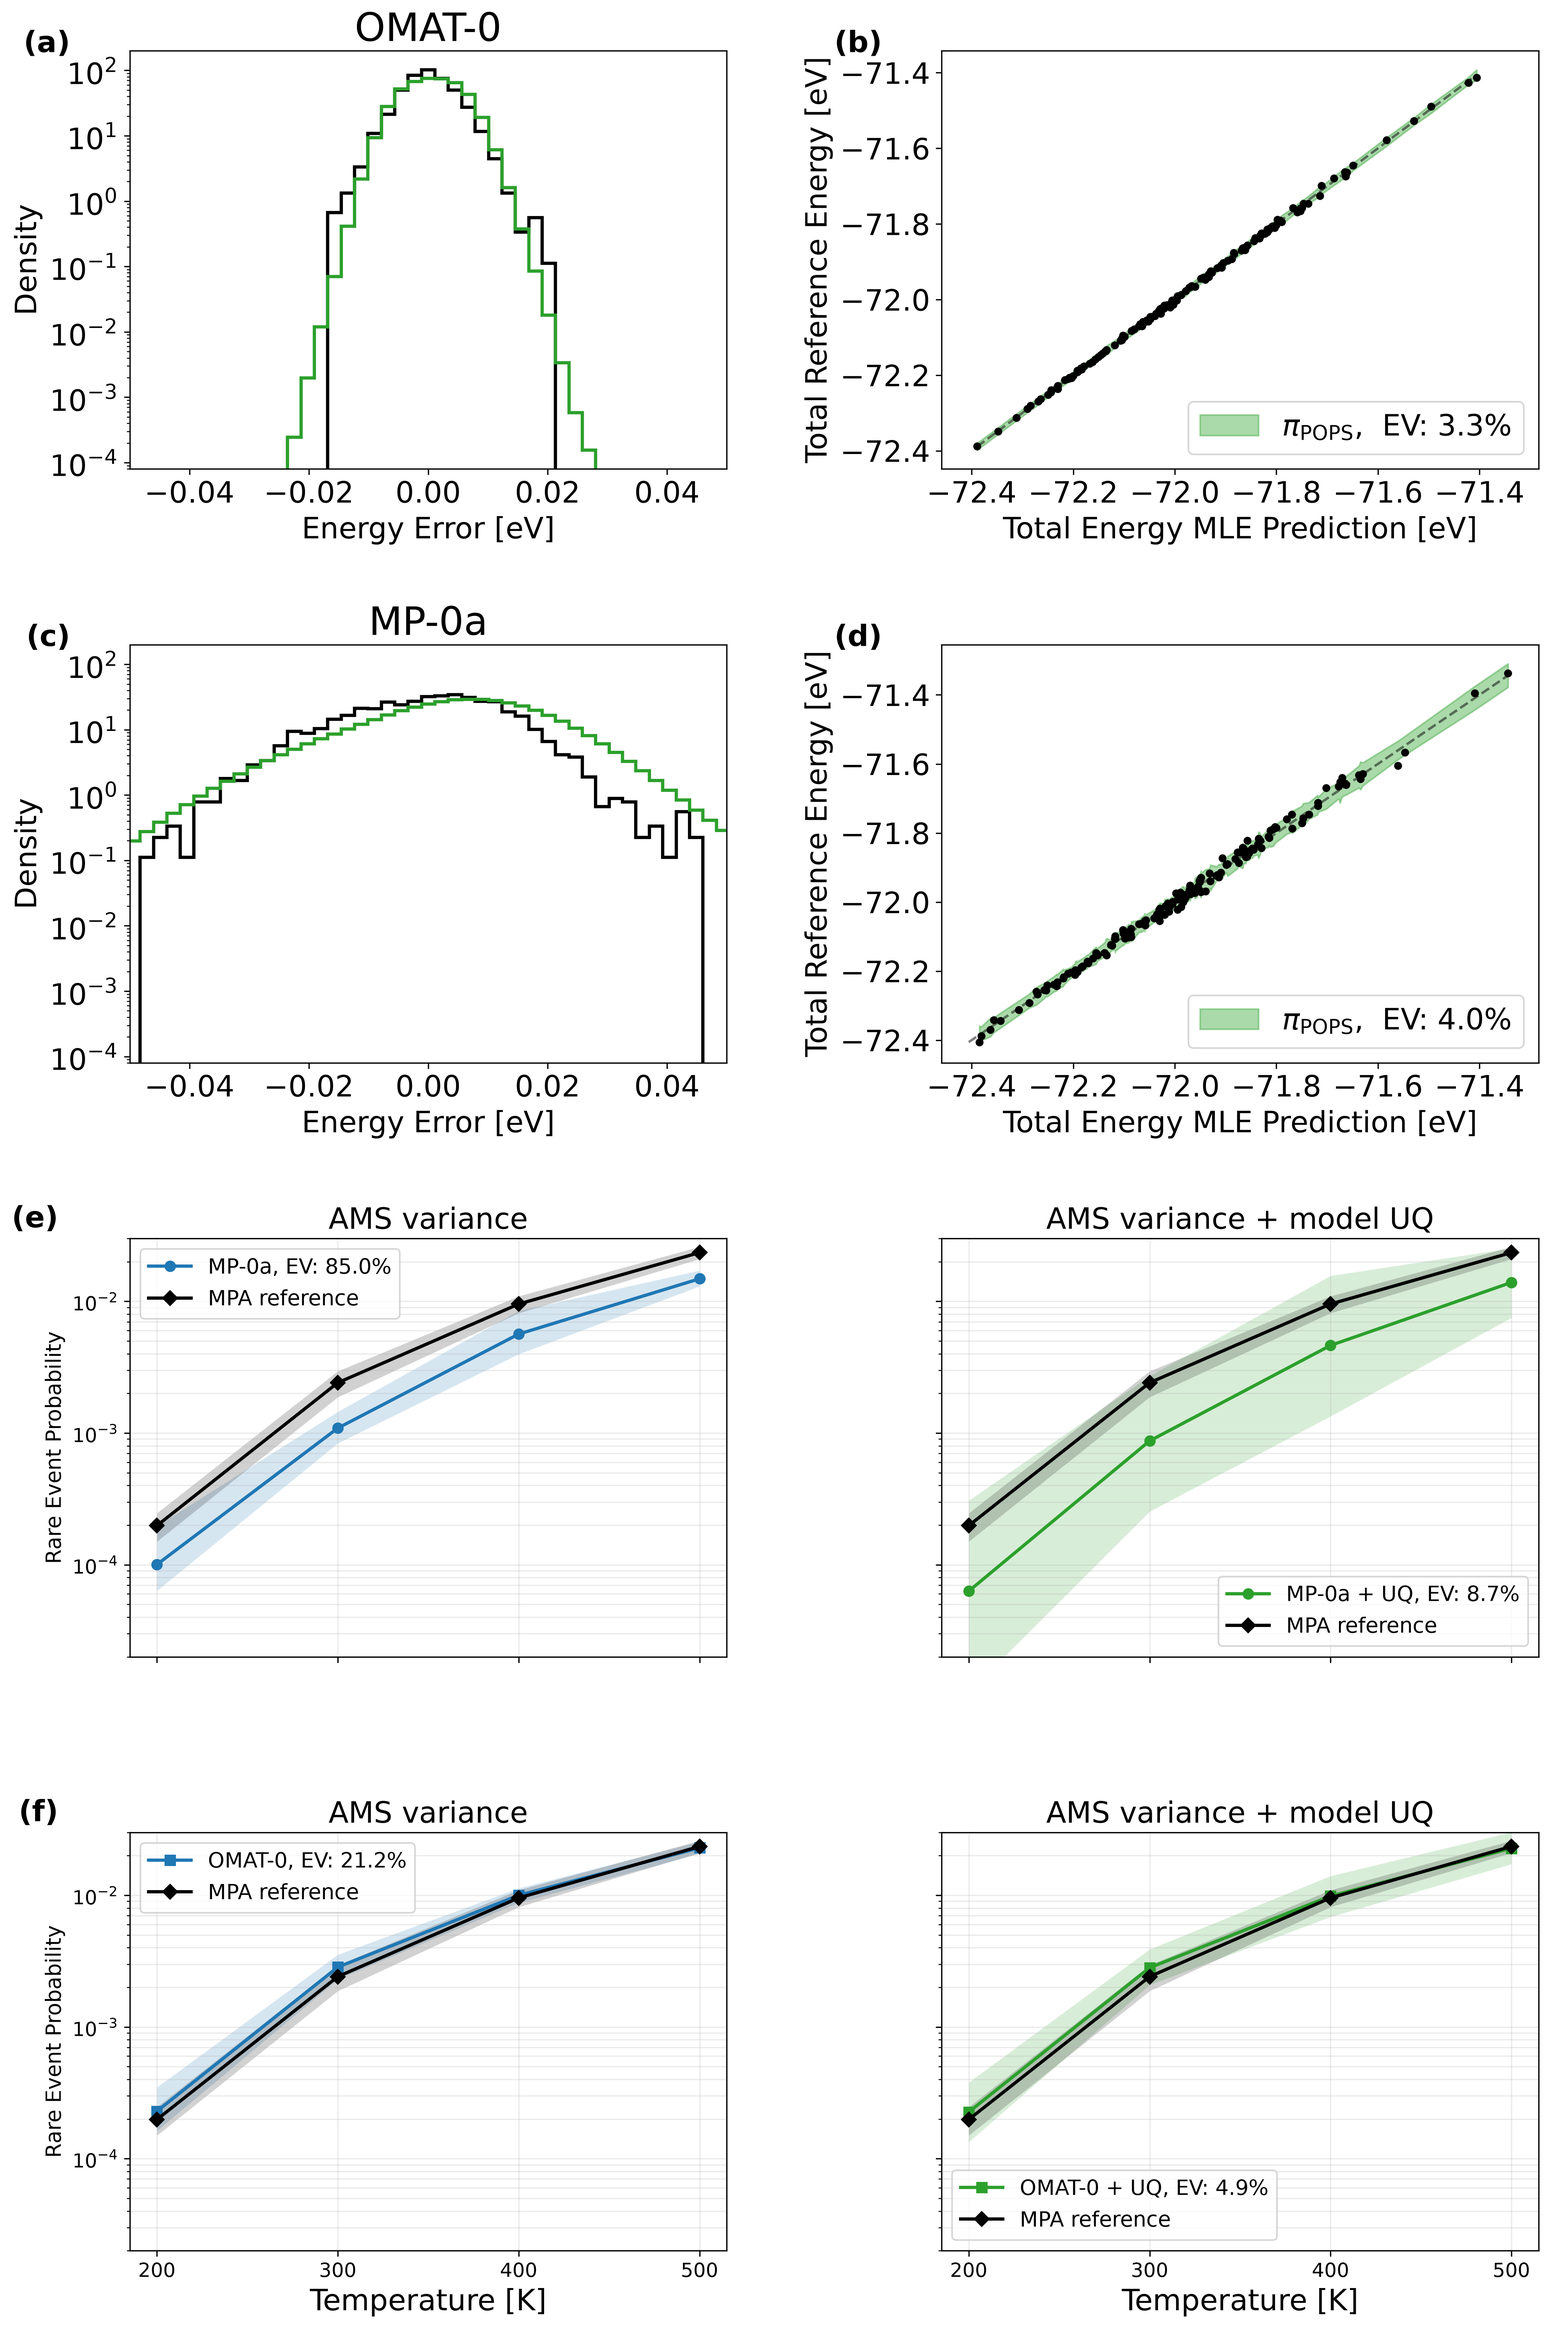
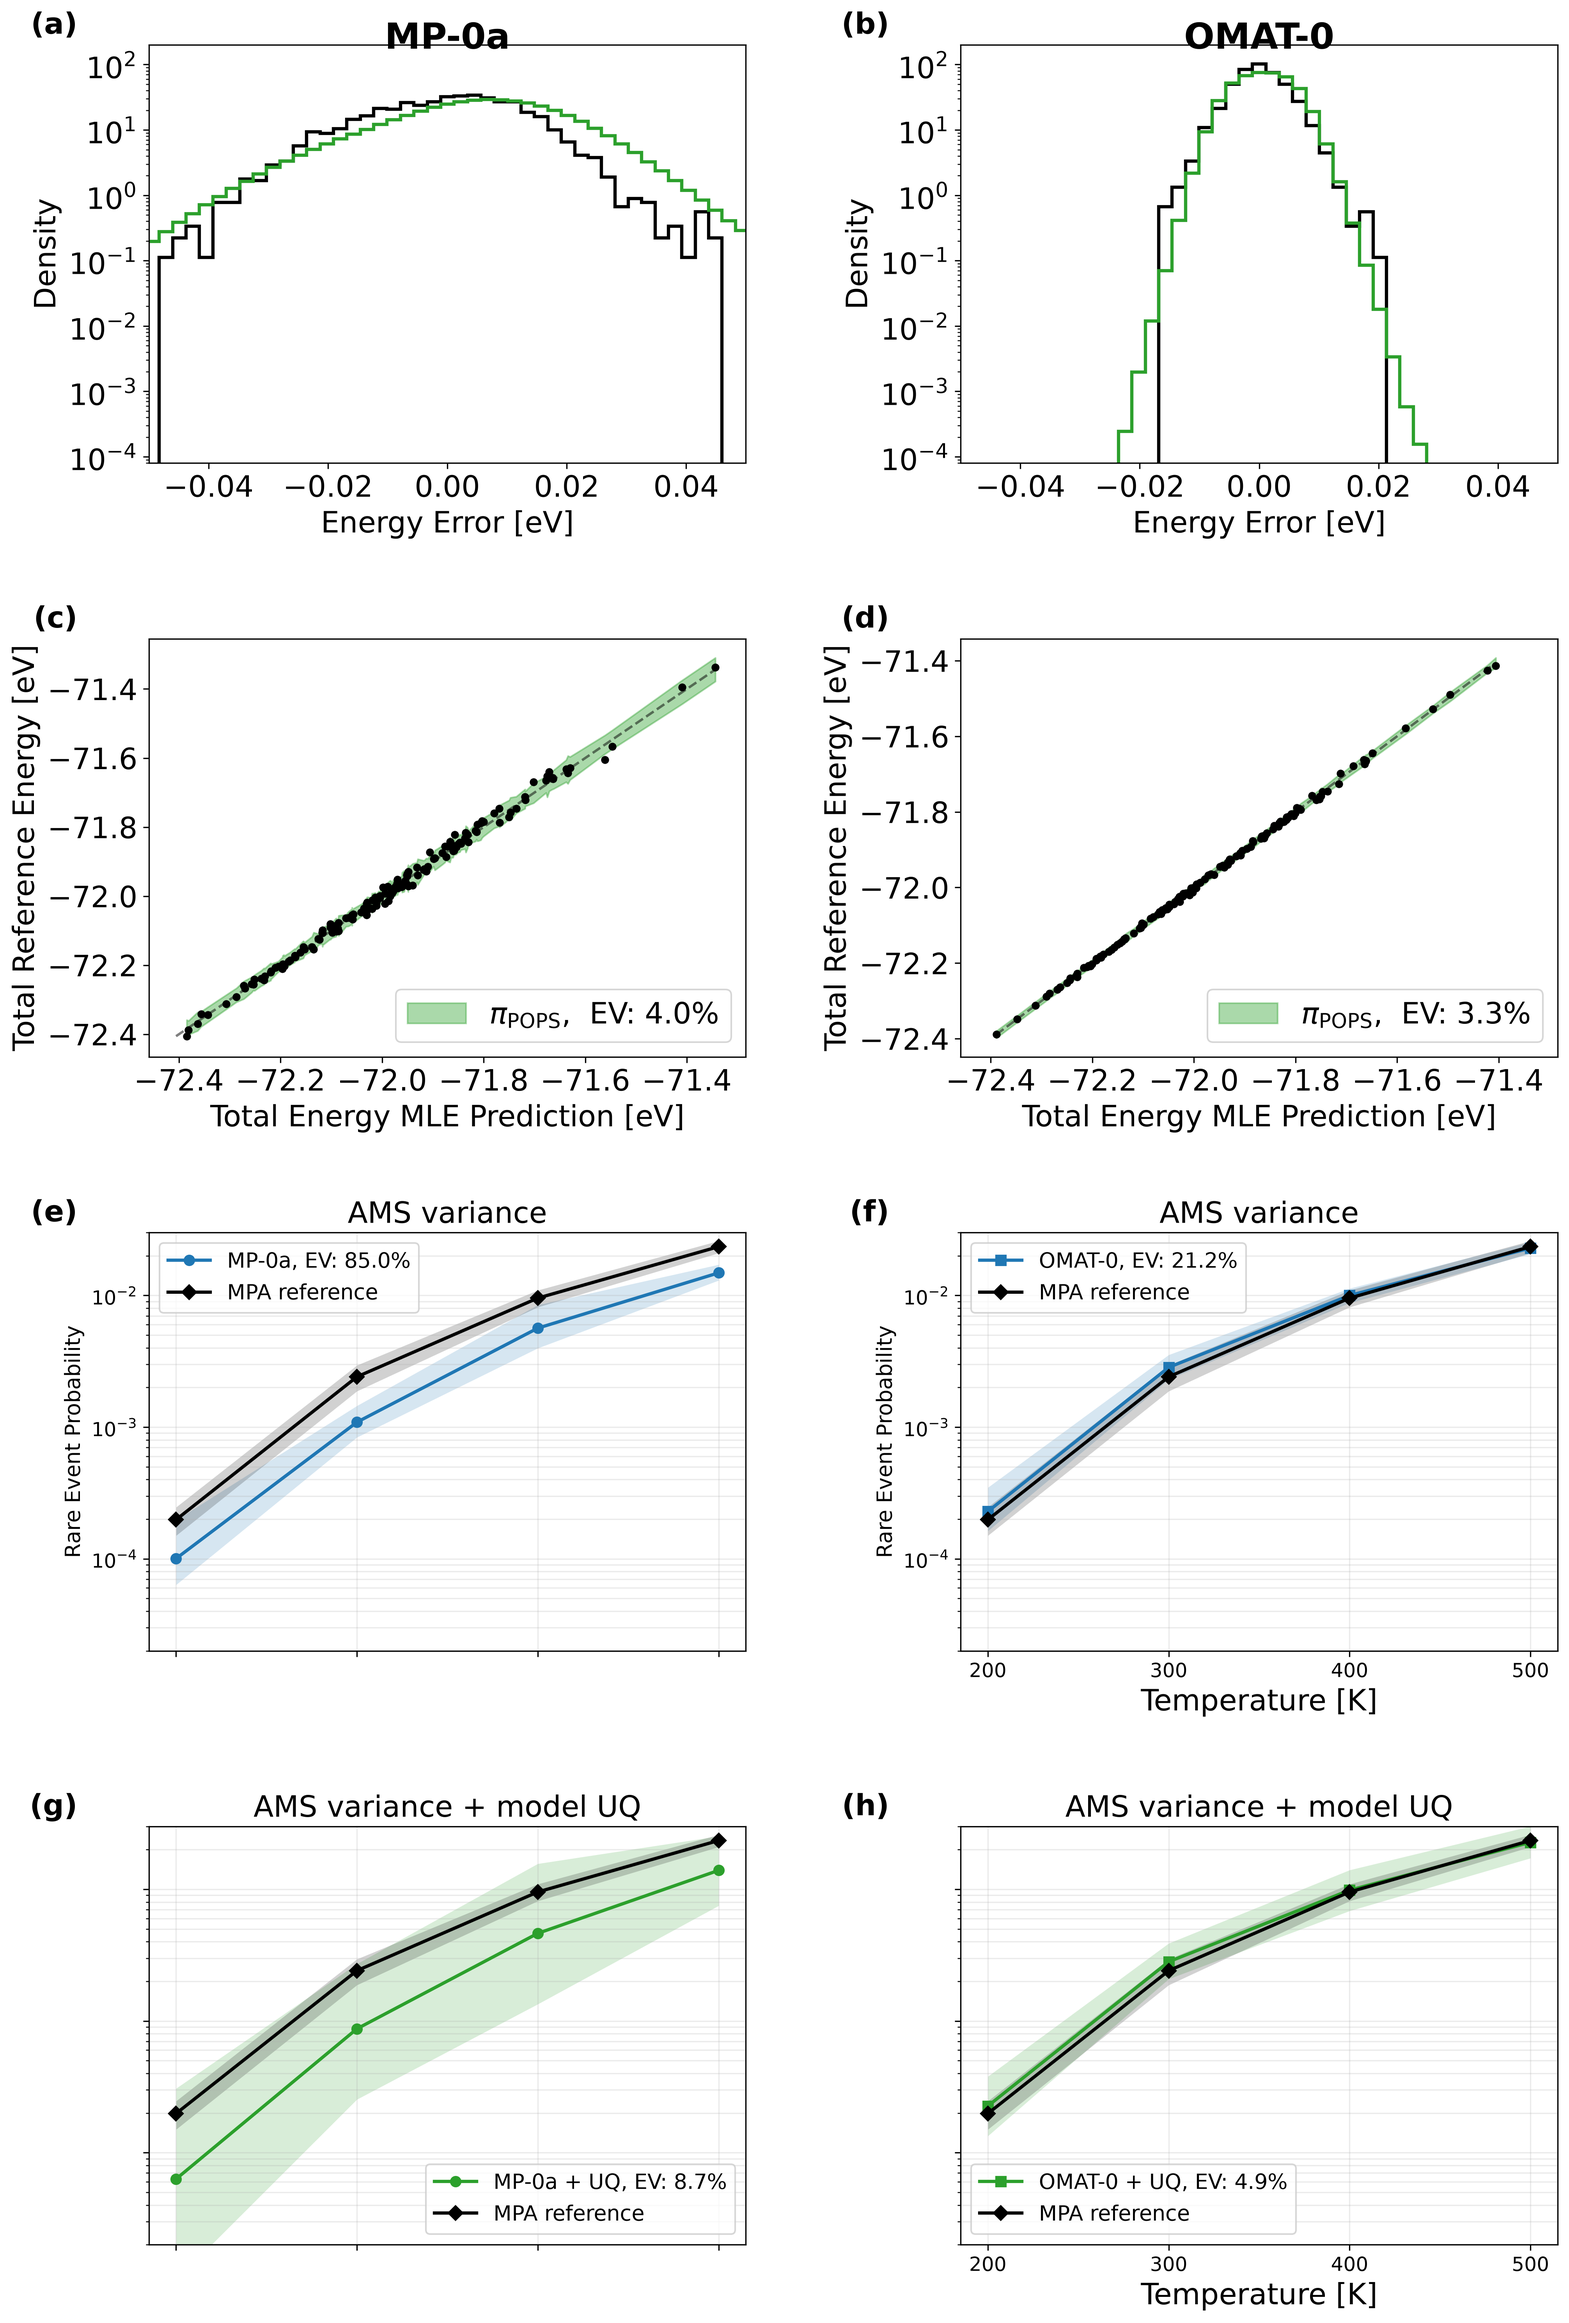
Group portrait figure by model columns

diff --git a/scripts/AMS_butane/plots/plot_energy_probability.py b/scripts/AMS_butane/plots/plot_energy_probability.py
@@ -456,7 +456,7 @@ fig.savefig(
     bbox_inches='tight',
 )
 
-# Save the same panels in a portrait layout for documents with a vertical page.
+# Save the same panels in a portrait layout, grouped by model columns.
 vertical_grid = fig.add_gridspec(
     4,
     2,
@@ -468,15 +468,47 @@ vertical_grid = fig.add_gridspec(
     hspace=0.42,
 )
 vertical_axes = [
-    axes[0, 0], axes[0, 1],
-    axes[1, 0], axes[1, 1],
-    temperature_axes[0, 0], temperature_axes[0, 1],
-    temperature_axes[1, 0], temperature_axes[1, 1],
+    axes[1, 0], axes[0, 0],
+    axes[1, 1], axes[0, 1],
+    temperature_axes[0, 0], temperature_axes[1, 0],
+    temperature_axes[0, 1], temperature_axes[1, 1],
 ]
 fig.set_size_inches(14, 20)
 for panel_index, ax in enumerate(vertical_axes):
     ax.set_axes_locator(None)
     ax.set_position(vertical_grid[panel_index // 2, panel_index % 2].get_position(fig))
+
+# Use column headers for the models, and number panels in row order.
+axes[0, 0].set_title('')
+axes[1, 0].set_title('')
+for ax in [*axes.flat, *temperature_axes.flat]:
+    for annotation in list(ax.texts):
+        if annotation.get_text() in {'(a)', '(b)', '(c)', '(d)', '(e)', '(f)'}:
+            annotation.remove()
+
+for col, model_name in enumerate(('MP-0a', 'OMAT-0')):
+    column_box = vertical_grid[0, col].get_position(fig)
+    fig.text(
+        (column_box.x0 + column_box.x1) / 2,
+        0.995,
+        model_name,
+        ha='center',
+        va='top',
+        fontsize=22,
+        fontweight='bold',
+    )
+
+panel_labels = {
+    axes[1, 0]: '(a)', axes[0, 0]: '(b)',
+    axes[1, 1]: '(c)', axes[0, 1]: '(d)',
+    temperature_axes[0, 0]: '(e)', temperature_axes[1, 0]: '(f)',
+    temperature_axes[0, 1]: '(g)', temperature_axes[1, 1]: '(h)',
+}
+for ax, label in panel_labels.items():
+    ax.text(
+        -0.12, 1.08, label, transform=ax.transAxes,
+        fontsize=18, fontweight='bold', va='top', ha='right',
+    )
 
 fig.savefig(
     os.path.join(output_dir, 'energy_probability_all_temperatures_vertical.png'),
